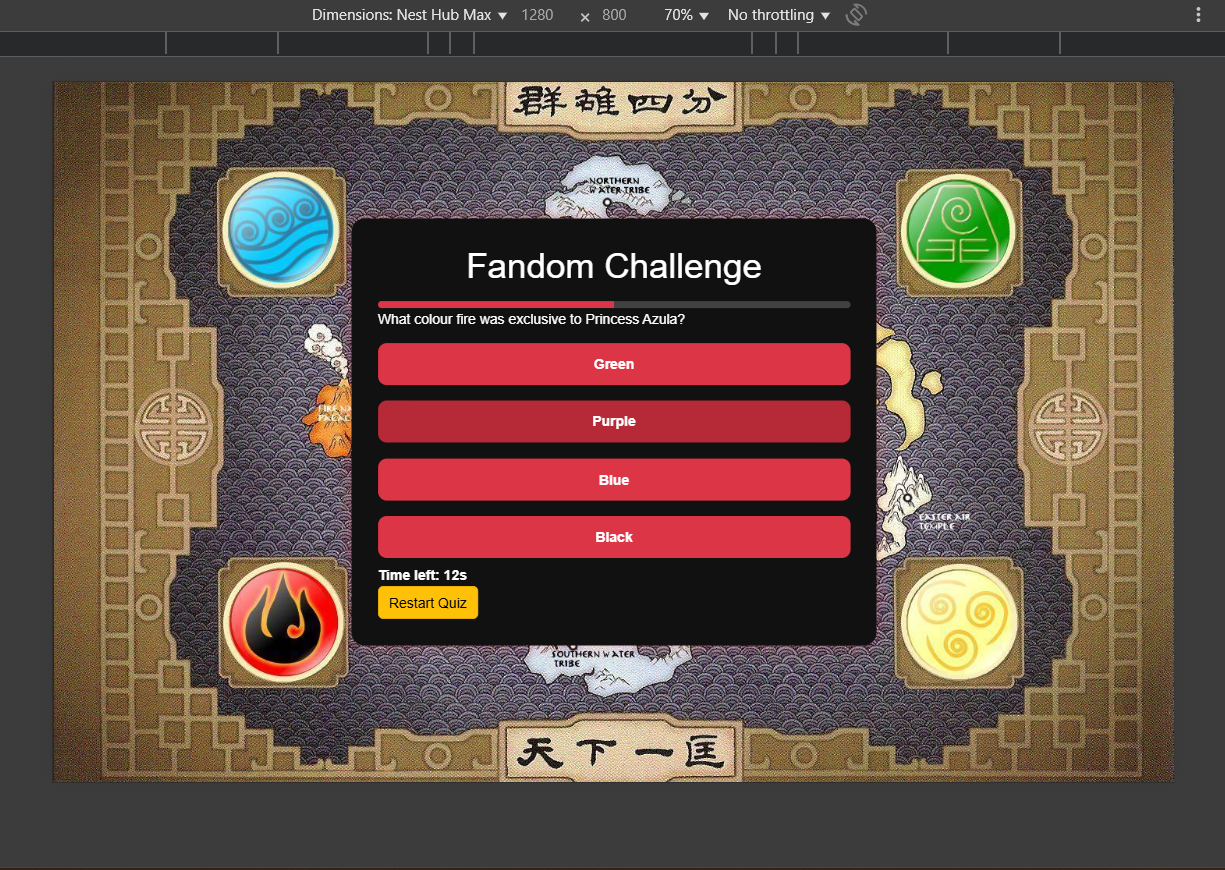
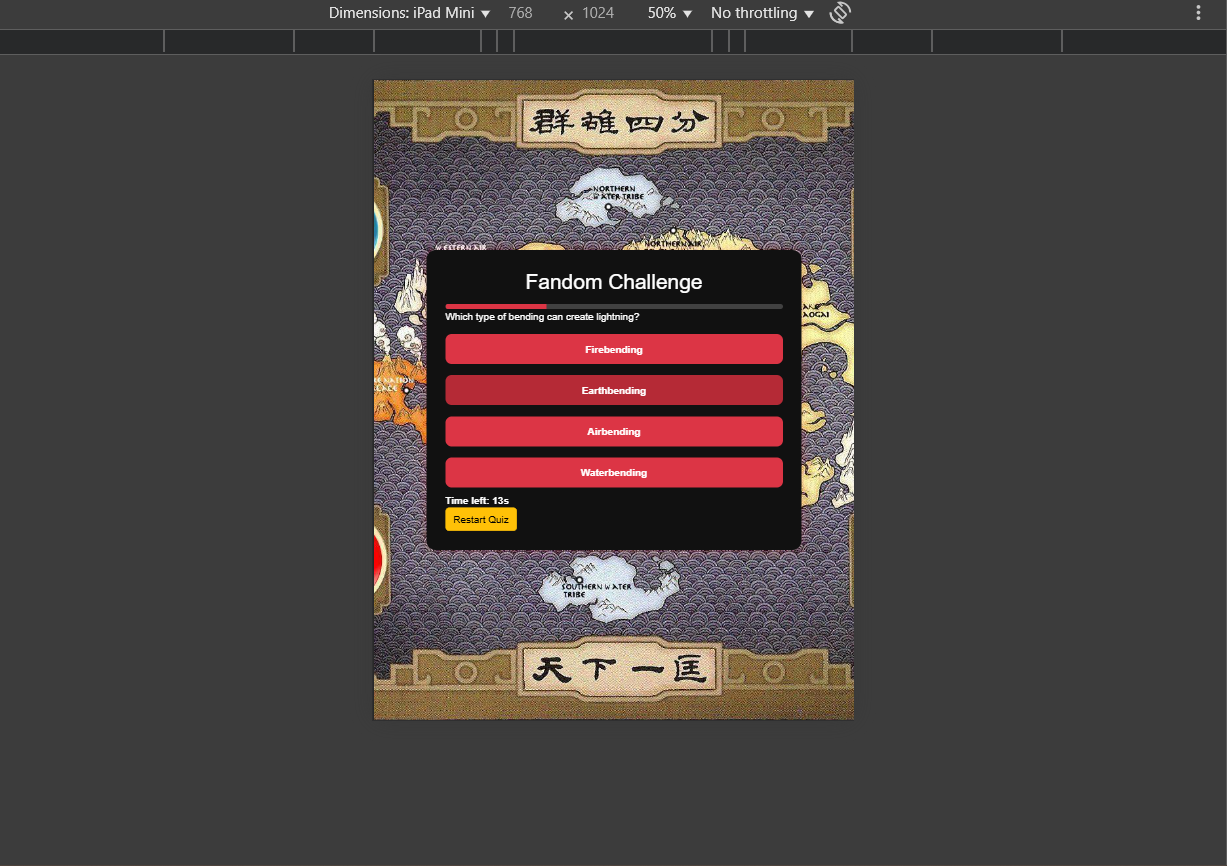
Update quiz backgrounds and screenshots

diff --git a/assets/js/script.js b/assets/js/script.js
@@ -68,7 +68,7 @@ function displayRules() {
 }
 
 avatarBtn.addEventListener('click', function() {
-    setBackground('assets/images/bg-avatar-2.jpg');
+    setBackground('assets/images/bg-avatar-4.jpg');
 
     selectedCategory = 'avatar';
     currentQuestionSet = getRandomQuestions(avatarQuestions, 10);
@@ -82,7 +82,7 @@ avatarBtn.addEventListener('click', function() {
 });
 
 gotBtn.addEventListener('click', function() {
-    setBackground('assets/images/bg-got-2.jpg');
+    setBackground('assets/images/bg-got-4.jpg');
 
     selectedCategory = 'got';
     currentQuestionSet = getRandomQuestions(gotQuestions, 10);
@@ -96,7 +96,7 @@ gotBtn.addEventListener('click', function() {
 });
 
 opmBtn.addEventListener('click', function() {
-    setBackground('assets/images/bg-opm-3.jpg');
+    setBackground('assets/images/bg-opm-4.jpg');
 
     selectedCategory = 'opm';
     currentQuestionSet = getRandomQuestions(onePunchManQuestions, 10);

diff --git a/README.md b/README.md
@@ -210,12 +210,12 @@ No explicit media queries are currently being used for this project. The layout 
 
 Below are three examples:
 
-- **iPhone SE** (mobile)  
-- **iPad Mini** (tablet)  
-- **Nest Hub Max** (smart display)  
+- **iPhone SE** (mobile)
+- **iPad Mini** (tablet)
+- **Nest Hub Max** (smart display)
 
-![iPhone SE Screenshot](assets/images/screenshot-iphone-se.png)  
-![iPad Mini Screenshot](assets/images/screenshot-ipad-mini.png)  
+![iPhone SE Screenshot](assets/images/screenshot-iphone-se.png)
+![iPad Mini Screenshot](assets/images/screenshot-ipad-mini.png)
 ![Nest Hub Max Screenshot](assets/images/screenshot-nest-hub-max.png)
 
 ### Automated Testing Results
